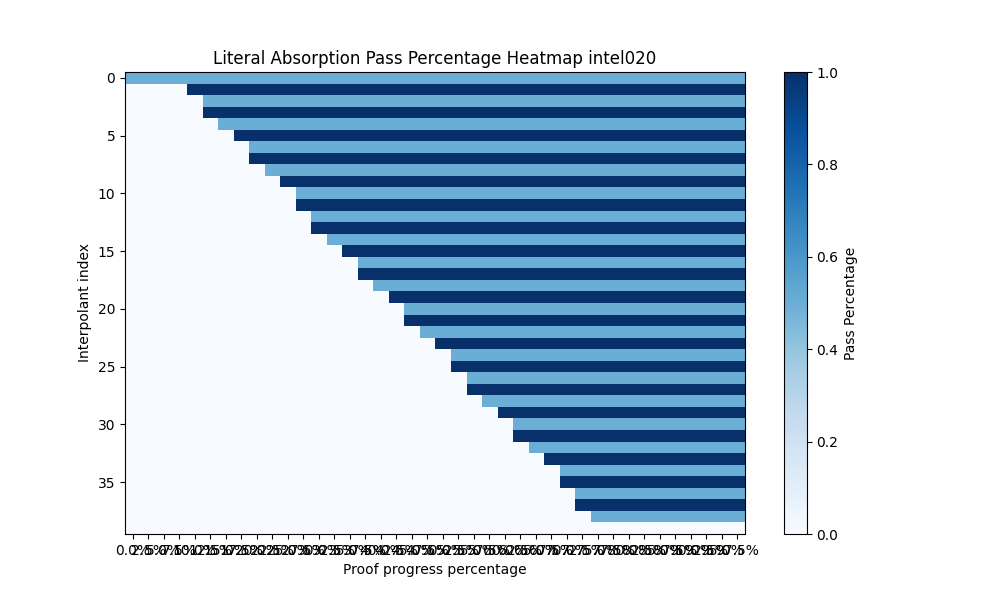
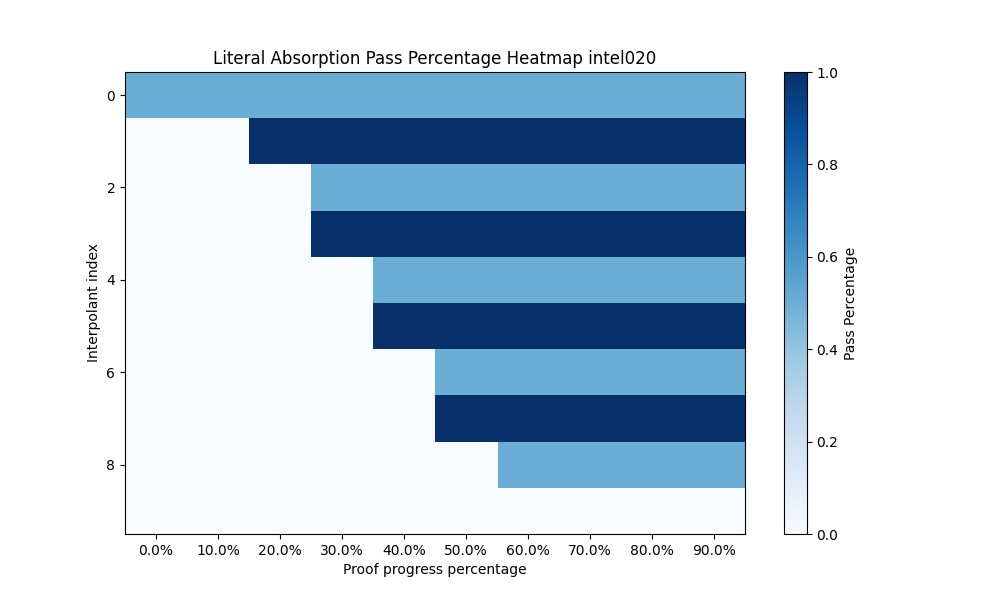
update

diff --git a/scripts/absorption_data_analysis.py b/scripts/absorption_data_analysis.py
@@ -4,6 +4,7 @@ import argparse
 from utils.utils import group_files_by_basename, GetData, RewriteMap, GetDataFromLog
 from utils.paths import get_absorption_experiments_dir, get_CNF_dir, get_exp_pbh_dir,get_interpolant_cnf_dir,get_interpolant_dimacs_dir
 from utils.process_cnf import compute_cnf_size_for_category
+from combine_proofdoor_to_cnf import combine_first_n_interpolant_to_cnf,group_cnf_files_by_basename
 from debug import logging
 import warnings
 
@@ -23,7 +24,7 @@ class AbsorptionDataAnalyzer:
         data_original,map_original,par2_original,mem_original = GetData(pbh_dir,"original.minisat")
         self.init_pbh_solving_times(map_pbh)
     
-    def run_solver(self,name, override_cnf=None):
+    def run_solver(self,name, override_cnf=None, use_cache=False):
         extra_flags = "--reduce=0 --restoreall=2 --flush=0 --no-binary"
         if override_cnf is None:
             cnf_dir = get_CNF_dir(self.K)
@@ -32,7 +33,11 @@ class AbsorptionDataAnalyzer:
         else:
             cnf_path = override_cnf
             log_path = f"{override_cnf}.{self.solver}.log"
+        if use_cache:
+            if os.path.exists(log_path):
+                return log_path
         cmd = f"{self.solver_bin} {extra_flags} {cnf_path} > {log_path}"
+        logging.LOG(f"Running solver for {name}: {cmd}")
         os.system(cmd)
         return log_path
     
@@ -56,8 +61,8 @@ class AbsorptionDataAnalyzer:
         if name not in self.keys:
             logging.LOG(f"Name {name} not found in the data")
             return None
-        if name not in self.solving_times:
-            output_path = self.run_solver(name)
+        if name not in self.solving_times or True:
+            output_path = self.run_solver(name, use_cache=True)
             res = GetDataFromLog(output_path)
             self.solving_times[name] = res
         return self.solving_times[name]
@@ -79,10 +84,13 @@ class AbsorptionDataAnalyzer:
         return line_count
 
     def get_pd_size(self,name):
+        logging.LOG(f"Getting PD size for {name}")
         pd_size = 0
         for i in range(1,int(self.K)+1):
             interpolant_cnf_path = f"{get_interpolant_dimacs_dir()}/{name}.{self.K}.index_{i-1}.dimacs"
-            assert(os.path.exists(interpolant_cnf_path))
+            if not os.path.exists(interpolant_cnf_path):
+                logging.LOG(f"Interpolant CNF file {interpolant_cnf_path} does not exist")
+                return None
             with open(interpolant_cnf_path, 'r') as f:
                 line_count = sum(1 for line in f)
             pd_size += line_count
@@ -90,11 +98,19 @@ class AbsorptionDataAnalyzer:
 
     def get_solving_time_after_pd_combined(self,name):
         combined_dir = get_interpolant_dimacs_dir()
-        combined_cnf = f"{combined_dir}/{name}.{self.K}.combined.cnf"
-        combined_output = f"{combined_dir}/{name}.{self.K}.combined.cnf.{self.solver}.log"
+        combined_cnf = f"{combined_dir}/{name}.{self.K}.all.dimacs"
+        combined_output = f"{combined_dir}/{name}.{self.K}.all.dimacs.{self.solver}.log"
         if not os.path.exists(combined_cnf):
-            self.run_solver(name,combined_cnf)
-            assert os.path.exists(combined_cnf)
+            print(f"Combined CNF file {combined_cnf} does not exist, try regenerate")
+            interpolant_cnf_dir = get_interpolant_cnf_dir()
+            combine_first_n_interpolant_to_cnf(
+                interpolant_cnf_dir,
+                self.K,
+                force_name=name,
+            )
+            if not os.path.exists(combined_cnf):
+                print(f"Failed to regenerate combined CNF file {combined_cnf}")
+                return None
         if not os.path.exists(combined_output):
             self.run_solver(name,combined_cnf)
             assert os.path.exists(combined_output)
@@ -106,27 +122,55 @@ class AbsorptionDataAnalyzer:
         output={}
         output["name"] = name
         output["solving_time"] = self.get_solving_time(name)
-        # output["pbh_solving_time"] = self.get_pbh_solving_time(name)
+        output["pbh_solving_time"] = self.get_pbh_solving_time(name)
         output["cnf_size"] = self.get_cnf_size(name)
         output["pd_size"] = self.get_pd_size(name)
-        # output["solving_time_after_pd_combined"] = self.get_solving_time_after_pd_combined(name)
+        output["solving_time_after_pd_combined"] = self.get_solving_time_after_pd_combined(name)
         return output
 
+    def analyze_all(self):  
+        output = {}
+        for name in self.keys:
+            output[name] = self.analyze(name)
+        json.dump(output, open("output.json", "w"), indent=4)
+        return output
 
 def parse_args():
     parser = argparse.ArgumentParser()
-    parser.add_argument("--K", type=str, required=True)
+    parser.add_argument("--K", type=int, required=True)
     return parser.parse_args()
 
 def main():
+    # groups=  group_cnf_files_by_basename(
+    #     get_interpolant_cnf_dir(),
+    #     10,
+    #     force_name="intel020",
+    # )
+    # print(groups)
+    # exit()
     interested_names= [
-        "intel020"
+        "intel001",
+        "intel003",
+        "intel020",
+        "intel031",
+        "intel037",
+        "intel063",
+        "139444p0",
+        "139444p0",
+        "139452p0",
+        "139453p0",
+        "6s0",
+        "6s159",
+        "6s4",
+        "6s134",
+        "6s372rb26",
     ]
     logging.TOGGLE_SHOWLOG(True)
     args = parse_args()
     analyzer = AbsorptionDataAnalyzer(interested_names, args.K)
-    output = analyzer.analyze("intel020")
-    json.dump(output, open("output.json", "w"), indent=4)
+    # output = analyzer.analyze()
+    # json.dump(output, open("output.json", "w"), indent=4)
+    analyzer.analyze_all()
 
 if __name__ == "__main__":
     main()

diff --git a/scripts/combine_proofdoor_to_cnf.py b/scripts/combine_proofdoor_to_cnf.py
@@ -49,29 +49,46 @@ def group_cnf_files_by_basename(directory, k_value, force_name=None, limit=-1):
     count = 0
     for filename in tqdm(os.listdir(directory)):
         if filename.endswith('.cnf'):
-            if force_name is not None and force_name not in filename:
+            basename = filename.split('.')[0]
+            if (force_name is not None) and force_name != basename:
+                # print(f"skipping {filename} because {basename} does not contain {force_name}")
                 continue
             parts = filename.split('.')
-            if len(parts) >= 4 and parts[1].isdigit() and int(parts[1]) == k_value:
+            # print(f"found {filename}")
+            # print(parts)
+            # print(int(parts[1]))
+            # print(int(k_value))
+            if int(parts[1]) == k_value:
+                # print("match")
                 basename = parts[0]
-                if limit > 0 and int(parts[2]) >= limit:
+                if limit != "all" and limit > 0 and int(parts[2]) >= limit:
                     continue
                 if basename not in file_groups:
                     file_groups[basename] = []
                 file_groups[basename].append(os.path.join(directory, filename))
-                
+    # print(f"file_groups: {file_groups}")
+    # exit()
     #check if the file group for each basename is valid
     invalid_keys = []
-    for basename, files in file_groups.items():
-        if len(files) != limit:
-            # print(f"basename: {basename}")
-            # print(f"files: {files}")
-            invalid_keys.append(basename)
+    # if limit > 0:
+    #     for basename, files in file_groups.items():
+    #         if len(files) != limit:
+    #             # print(f"basename: {basename}")
+    #             # print(f"files: {files}")
+    #             invalid_keys.append(basename)
             
     for key in invalid_keys:
         print(f"deleting {key} because it has only {len(file_groups[key])} files while {limit} is expected")
         del file_groups[key]
     return file_groups
+
+def combine_clauses_from_all_files(files, original_var_count, auxilliary_map):
+    """Combine all clauses from a list of CNF files, sharing the same auxiliary map."""
+    all_clauses = []
+    for file_path in files:
+        clauses = parse_cnf_list(file_path, auxilliary_map, original_var_count)
+        all_clauses.extend(clauses)
+    return all_clauses, auxilliary_map
 
 def combine_clauses_from_files(files, original_var_count, n_value, previous_parsed_cnf_clauses_for_file, auxilliary_map):
     """Combine all clauses from a list of CNF files, sharing the same auxiliary map."""
@@ -265,7 +282,11 @@ def combine_first_n_interpolant_to_cnf_single(
            
 def combine_first_n_interpolant_to_cnf(
     directory, k_value, n_value=-1, force_name=None,
-    previous_parsed_cnf_clauses=None, auxilliary_map=None):            
+    previous_parsed_cnf_clauses=None, auxilliary_map=None):      
+        if previous_parsed_cnf_clauses is None:
+            previous_parsed_cnf_clauses = {}
+        if auxilliary_map is None:
+            auxilliary_map = {}
         if n_value == -1:
             n_value = "all"
         if n_value == 0:
@@ -281,7 +302,6 @@ def combine_first_n_interpolant_to_cnf(
                 combined_output = f"{output_dir}/{basename}.{k_value}.combined.0.cnf"
                 os.system(f"cp {original_cnf} {combined_output}")
             return
-                
                 
         file_groups = group_cnf_files_by_basename(directory, k_value, force_name, n_value)
         dimacs_files = []
@@ -311,8 +331,7 @@ def combine_first_n_interpolant_to_cnf(
             valid_group = True
             if not valid_group:
                 continue
-            all_clauses, auxilliary_map, new_parsed_cnf_clauses = combine_clauses_from_files(files, original_var_count, n_value, previous_parsed_cnf_clauses[basename], auxilliary_map)
-            previous_parsed_cnf_clauses[basename] = new_parsed_cnf_clauses
+            all_clauses, auxilliary_map = combine_clauses_from_all_files(files, original_var_count, auxilliary_map)
             header, var_mapping, dimacs_clauses = convert_to_dimacs(all_clauses)
             with open(output_file, 'w') as f:
                 f.write(header + "\n")

diff --git a/scripts/pyscripts/start_absorption_experiment.py b/scripts/pyscripts/start_absorption_experiment.py
@@ -7,13 +7,13 @@ def main():
     interested_names=[
         "intel003", # exp
         "intel020", # exp
-        # "intel007", # exp 
-        # "intel031", # exp 
-        # "intel056", # exp 
-        # "intel037", # lin
-        # "intel001", # poly
-        # "intel004", # poly
-        # "intel063", # poly
+        "intel007", # exp 
+        "intel031", # exp 
+        "intel056", # exp 
+        "intel037", # lin
+        "intel001", # poly
+        "intel004", # poly
+        "intel063", # poly
         # # "cal102", # exp
         # # "cal176", # exp
         # # "cal21", # exp
@@ -88,8 +88,8 @@ def main():
         # "beemcycschd3b1"
     ]
     K_set = [
-        # 10,
-        40
+        10,
+        # 40
         ]
     parser = argparse.ArgumentParser()
     parser.add_argument("--clean", action="store_true", default=False)

diff --git a/scripts/check_proof_absorb_PD.py b/scripts/check_proof_absorb_PD.py
@@ -132,7 +132,7 @@ def get_clause_pass_percentage_trend(cnf_path, k_value):
                 total_count += 1
             percentage_for_interpolant_per_iteration.append(float(pass_count) / total_count)
         percentage_for_iterations.append(percentage_for_interpolant_per_iteration)
-    draw_greyscale_plot(percentage_for_iterations,f'Clause Absorption Pass Percentage Heatmap {basename}_{k_value}')
+    draw_greyscale_plot(percentage_for_iterations,f'MINISATClause Absorption Pass Percentage Heatmap {basename}_{k_value}')
     return percentage_for_iterations
 
 def get_literal_pass_percentage_trend(cnf_path, k_value):
@@ -174,8 +174,11 @@ def prepare_datas(names,k_value,force_refresh=False,index=None):
         else:
             print(f"CNF file {cnf_path} exists, skipping")
         cadical_proof_path = f"./ProofDoorBenchmark/cnfs/{k_value}/{name}.{k_value}.cadical_proof"
-        # minisat_proof_path = f"./ProofDoorBenchmark/cnfs/{k_value}/{name}.{k_value}.minisat_proof"
+        minisat_proof_path = f"./ProofDoorBenchmark/cnfs/{k_value}/{name}.{k_value}.minisat_proof"
         should_regenerate_proof = False
+        os.system(f"{minisat_solver} {cnf_path} > {minisat_proof_path}.raw")
+        os.system(f"cat {minisat_proof_path}.raw | grep 'PDLOG Learnt clause:' | sed 's/PDLOG Learnt clause: //' > {minisat_proof_path}")
+        
         if not os.path.exists(cadical_proof_path) or os.path.getsize(cadical_proof_path) == 0:
             print(f"Drat file {cadical_proof_path} DNE or empty, regenerating")
             should_regenerate_proof = True
@@ -246,6 +249,10 @@ def prepare_datas(names,k_value,force_refresh=False,index=None):
                 # print(f"Force refreshing proofs for {name} with k_value {k_value},index {index}")
                 # combine_single_i_interpolant_to_cnf(get_interpolant_cnf_dir(), k_value, index, name)
                 
+                minisat_proof_path = f"./ProofDoorBenchmark/cnfs/{k_value}/{name}.{k_value}.minisat_proof"
+                os.system(f"{minisat_solver} {cnf_path} > {minisat_proof_path}.raw")
+                os.system(f"cat {minisat_proof_path}.raw | grep 'PDLOG Learnt clause:' | sed 's/PDLOG Learnt clause: //' > {minisat_proof_path}")
+        
                 cadical_proof_path = f"./ProofDoorBenchmark/cnfs/{k_value}/{name}.{k_value}.cadical_proof"
                 if not os.path.exists(cadical_proof_path) or os.path.getsize(cadical_proof_path) == 0:
                     os.system(f"{cadical_solver} {cnf_path} {cadical_proof_path} --no-binary --reduce=0 --restoreall=2 --flush=0 ")
@@ -256,7 +263,7 @@ def prepare_datas(names,k_value,force_refresh=False,index=None):
 
 def check_and_draw_for_index(names,k_value,index):
     for name in names:
-        check_proof_absorb_PD(f"{get_cnfs_dir(k_value)}/{name}.{k_value}.cnf",k_value,index,True)
+        check_proof_absorb_PD(f"{get_cnfs_dir(k_value)}/{name}.{k_value}.cnf",k_value,index,True,False)
 
 def check_and_draw(names,k_value,force_refresh=False,index=None):
     if index != None:

diff --git a/scripts/utils/process_cnf.py b/scripts/utils/process_cnf.py
@@ -43,7 +43,7 @@ class CNF:
                     continue
                 else:
                     # Split the line into literals and remove the trailing 0
-                    literals = [int(x) for x in line.strip().split()[:-1]]
+                    literals = [int(x) for x in line.strip().split() if x != '0']
                     if literals:  # Only add non-empty clauses
                         self.clauses.append(literals)
                         line_count += 1

diff --git a/scripts/count_interpolant_byz3.py b/scripts/count_interpolant_byz3.py
@@ -134,7 +134,6 @@ def count_by_z3(smt2_content,smt_path=None):
         goal.add(f)
     # Apply the 'tseitin-cnf' tactic to convert to CNF
     cnf_tactic = Tactic('tseitin-cnf', ctx=ctx)
-    cnf_simplify = Tactic('simplify', ctx=ctx)
     tactics_to_use = Then(cnf_tactic, cnf_simplify)
     cnf_result = tactics_to_use(goal)
     basename = os.path.basename(smt_path)